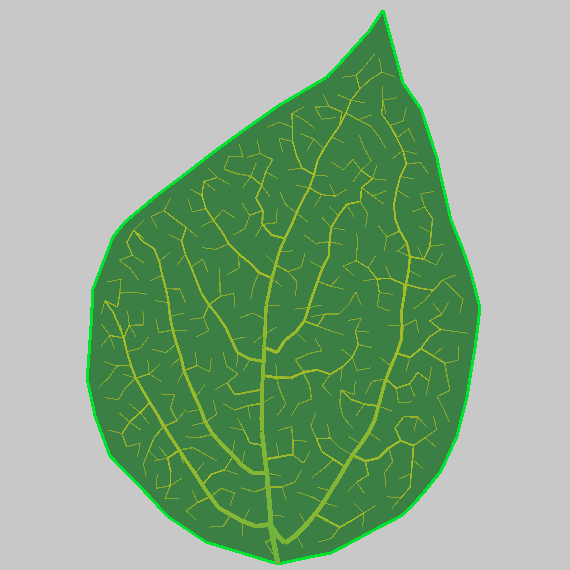
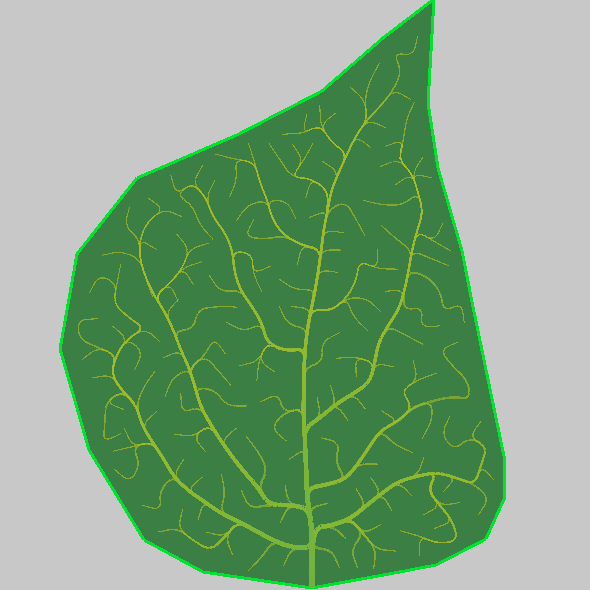
Added smoothing to resulting veins pattern

Changed region(s): [[0.0895, 0.0, 0.8649, 1.0]]

diff --git a/main.c b/main.c
@@ -16,15 +16,17 @@
 #define FONT_SIZE 25
 
 #define CELL_SIZE 15.0f
-
 #define MIN_POLYGON_DIST 10.0f
+#define MIN_POLYGON_LEN 3.0f
+#define SMOOTH_RATIO 0.75f
+#define SMOOTH_ITERATION 10
 
-#define VEIN_RADIUS 7.0f
+#define VEIN_RADIUS 10.0f
 #define VEIN_CENTER 2.0f
 #define FIRST_VEIN_RADIUS 3*VEIN_RADIUS
 #define FIRST_VEIN_OFFSET 2*VEIN_RADIUS
 
-#define AUXIN_RADIUS 10.0f
+#define AUXIN_RADIUS 15.0f
 #define AUXIN_DOT_RADIUS 2.0f
 #define AUXIN_SPRAY_THRESHOLD 100
 
@@ -409,8 +411,7 @@ static bool drawing(Polygon2 *polygon, Vector2 seed_coord, int width, int height
     DrawCircle(seed_coord.x, seed_coord.y, FIRST_VEIN_RADIUS, WHITE);
     DrawCircle(seed_coord.x, seed_coord.y, VEIN_CENTER, BLACK);
 
-    polygon_valid = len_v2(sub_v2(mouse, p)) > MIN_POLYGON_DIST;
-    if (polygon_valid) polygon_valid = distance_v2(p, mouse, seed_coord, true) > FIRST_VEIN_RADIUS;
+    polygon_valid = distance_v2(p, mouse, seed_coord, true) > FIRST_VEIN_RADIUS;
     if (polygon_valid) polygon_valid = !segment_intersect_polygon(p, mouse, polygon);
 
     for (size_t i = 0; i < polygon->count - 1; i++) {
@@ -473,7 +474,7 @@ static void eliminate_auxins(Auxins *auxins, const Veins *veins, const Polygon2 
     // Collect indeces to remove
     for (size_t i = 0; i < auxins->count; i++) {
         float min_dist;
-        if (!point_inside(auxins->items[i].center, polygon, &min_dist) || min_dist < AUXIN_RADIUS / 2) {
+        if (!point_inside(auxins->items[i].center, polygon, &min_dist) || min_dist < (auxins->items[i].radius / 2)) {
             DA_APPEND((&to_remove), i);
             continue;
         }
@@ -655,11 +656,11 @@ static void traverse_parents(const Veins *veins, Vector2 root, Tree *tree) {
                 break;
             }
         }
-        if (!used_as_parent)
-            DA_APPEND(&leaves, i);
+        if (!used_as_parent) DA_APPEND(&leaves, i);
     }
 
     for (size_t i = 0; i < leaves.count; i++) {
+        // Traverse from leaf to root
         Branch v = (Branch){0};
         Node *node = &veins->items[leaves.items[i]];
         DA_APPEND(&v, node->center);
@@ -669,6 +670,35 @@ static void traverse_parents(const Veins *veins, Vector2 root, Tree *tree) {
         }
         // Finish branch with the root point
         DA_APPEND((&v), root);
+
+        // Smooth resulting polyline: Chaikin’s Method
+        Branch prev = (Branch){0};
+        for (size_t n = 0; n < SMOOTH_ITERATION; n++) {
+            prev.count = v.count;
+            prev.capacity = v.capacity;
+            prev.items = v.items;
+            v = (Branch){0};
+            for (size_t i = 0; i < prev.count - 1; i++) {
+                Vector2 a = prev.items[i];
+                Vector2 b = prev.items[i + 1];
+
+                Vector2 ab = sub_v2(b, a);
+                if (len_v2(ab) > MIN_POLYGON_LEN) {
+                    Vector2 m1 = (Vector2){a.x + ab.x * (1 - SMOOTH_RATIO), a.y + ab.y * (1 - SMOOTH_RATIO)};
+                    Vector2 m2 = (Vector2){a.x + ab.x * SMOOTH_RATIO,       a.y + ab.y * SMOOTH_RATIO};
+                    if (i == 0) DA_APPEND((&v), a);
+                    DA_APPEND((&v), m1);
+                    DA_APPEND((&v), m2);
+                } else {
+                    DA_APPEND((&v), a);
+                    DA_APPEND((&v), b);
+                }
+            }
+            DA_APPEND((&v), prev.items[prev.count - 1]);
+            free(prev.items);
+        }
+
+        // Add branch to the tree
         DA_APPEND(tree, v);
     }
 
@@ -690,12 +720,33 @@ int main(void) {
     polygon.closed = false;
     DA_APPEND(&polygon, ((Vector2){width / 2, height - FIRST_VEIN_OFFSET / 2}));
 
+    Veins veins = (Veins){0};
     Vector2 seed_coord = {width / 2, height - FIRST_VEIN_RADIUS - FIRST_VEIN_OFFSET};
 
-    Veins veins = (Veins){0};
-    DA_APPEND(&veins, ((Node){(Vector2){seed_coord.x - VEIN_RADIUS, seed_coord.y - VEIN_RADIUS}, VEIN_RADIUS, .closest_source_indeces = (Indeces){0}, .parent=(Vector2){-1, -1}}));
-    DA_APPEND(&veins, ((Node){seed_coord,                                                        VEIN_RADIUS, .closest_source_indeces = (Indeces){0}, .parent=veins.items[0].center}));
-    DA_APPEND(&veins, ((Node){(Vector2){seed_coord.x + VEIN_RADIUS, seed_coord.y + VEIN_RADIUS}, VEIN_RADIUS, .closest_source_indeces = (Indeces){0}, .parent=veins.items[1].center}));
+    // Several first nodes
+    Node vein1 = {
+        .center=(Vector2){seed_coord.x, seed_coord.y - VEIN_RADIUS * 2},
+        .radius=VEIN_RADIUS,
+        .closest_source_indeces=(Indeces){0},
+        .parent=(Vector2){-1,-1}
+    };
+    DA_APPEND(&veins, vein1);
+
+    Node vein2 = {
+        .center=seed_coord,
+        .radius=VEIN_RADIUS,
+        .closest_source_indeces=(Indeces){0},
+        .parent=veins.items[0].center
+    };
+    DA_APPEND(&veins, vein2);
+
+    Node vein3 = {
+        .center=(Vector2){seed_coord.x, seed_coord.y + VEIN_RADIUS * 2},
+        .radius=VEIN_RADIUS,
+        .closest_source_indeces=(Indeces){0},
+        .parent=veins.items[1].center
+    };
+    DA_APPEND(&veins, vein3);
 
     Auxins auxins = (Auxins){0};
     Vertices vertices = (Vertices){0};
@@ -756,11 +807,11 @@ int main(void) {
                     DrawRing(auxins.items[i].center, auxins.items[i].radius, auxins.items[i].radius + 1, 0, 360, 200, PINK);
                 }
 
-                // 4. Associate each auxin with vein node that is closes to it
+                // 3. Associate each auxin with vein node that is closes to it
                 associate_auxins(&auxins, &veins, &polygon);
 
-                // 5. Construct normalized vectors from the vein node to each associated auzin source
-                // 6. Sum constructed vectors and normalize it again -> calculate location of new node and add them
+                // 4. Construct normalized vectors from the vein node to each associated auzin source.
+                // Sum constructed vectors and normalize it again -> calculate location of new node and add them
                 produce_new_nodes(&auxins, &polygon, &veins);
             } break;
             case STOPPED: {
